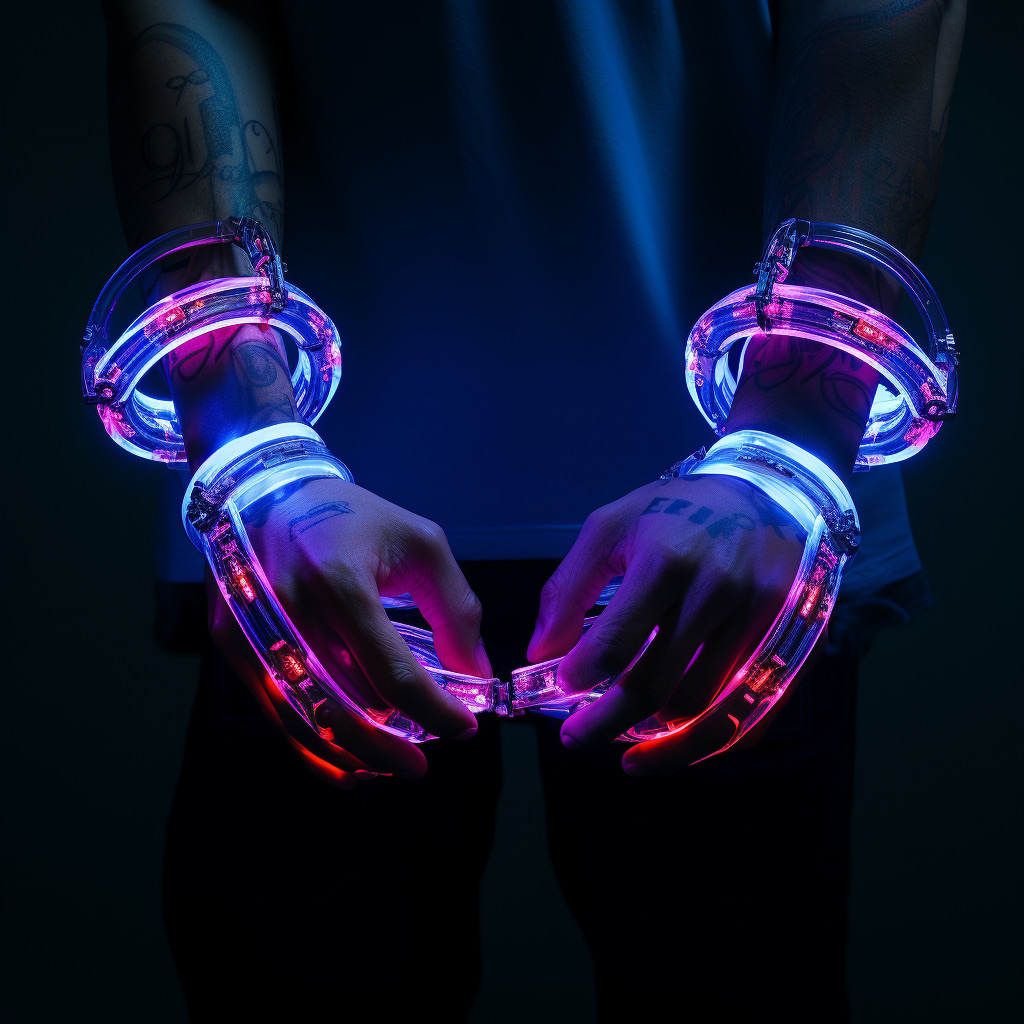
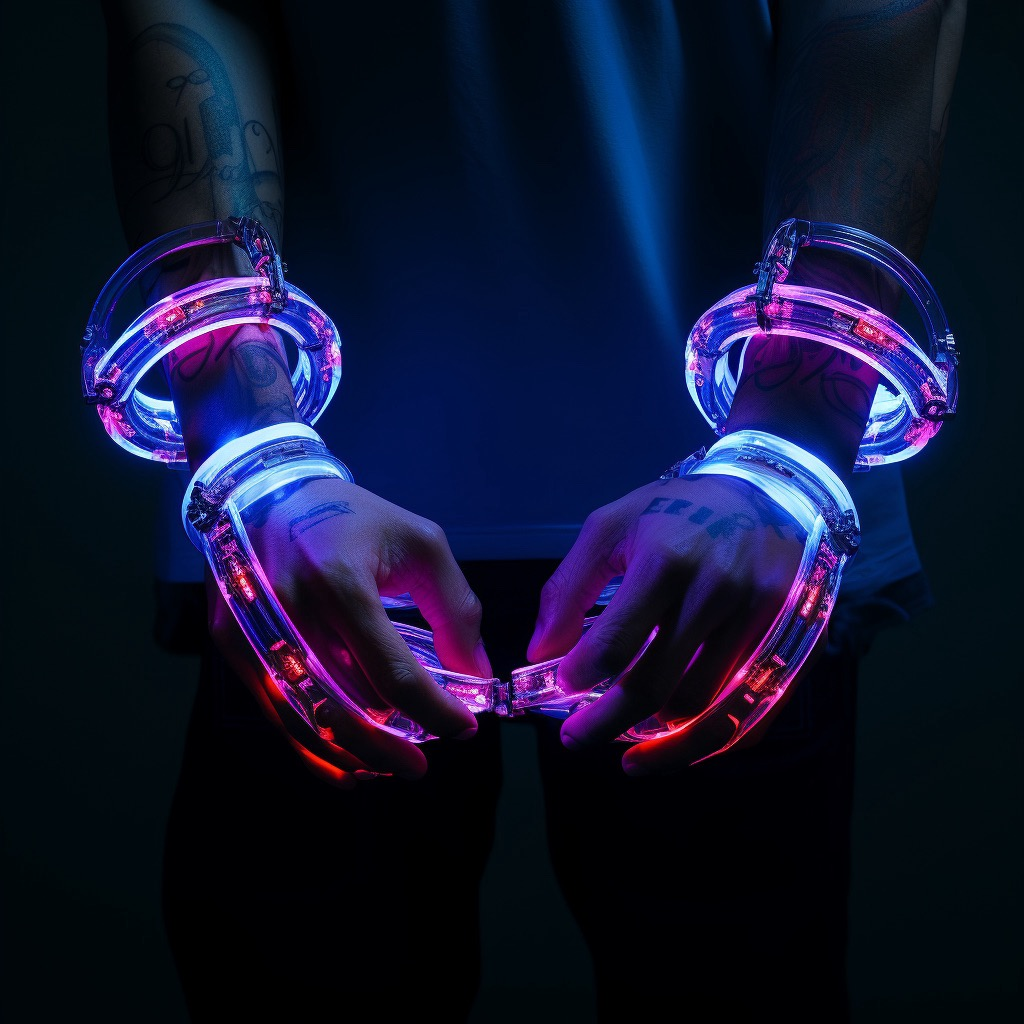
changed image size

diff --git a/movie.html b/movie.html
@@ -151,7 +151,7 @@
         <div class="cast-grid">
             <div class="cast-and-name">
                 <div class="cast">
-                    <img alt="john doe" class="cast-pic" src="assets/images/actors-directors/john-doe-1.png"
+                    <img alt="john doe" class="cast-pic" src="assets/images/actors-directors/john-doe-1.jpeg"
                          width="1024" height="1024"/>
                 </div>
                 <div class="name">
@@ -162,7 +162,7 @@
             </div>
             <div class="cast-and-name">
                 <div class="cast">
-                    <img alt="john doe-2" class="cast-pic" src="assets/images/actors-directors/john-doe-2.png"
+                    <img alt="john doe-2" class="cast-pic" src="assets/images/actors-directors/john-doe-2.jpeg"
                          width="1024" height="1024"/>
                 </div>
                 <div class="name">
@@ -173,7 +173,7 @@
             </div>
             <div class="cast-and-name">
                 <div class="cast">
-                    <img alt="john doe-3" class="cast-pic" src="assets/images/actors-directors/john-doe-3.png"
+                    <img alt="john doe-3" class="cast-pic" src="assets/images/actors-directors/john-doe-3.jpeg"
                          width="1024" height="1024"/>
                 </div>
                 <div class="name">
@@ -184,7 +184,7 @@
             </div>
             <div class="cast-and-name">
                 <div class="cast">
-                    <img alt="jane doe" class="cast-pic" src="assets/images/actors-directors/jane-doe-1.png"
+                    <img alt="jane doe" class="cast-pic" src="assets/images/actors-directors/jane-doe-1.jpeg"
                          width="1018" height="1018"/>
                 </div>
                 <div class="name">
@@ -195,7 +195,7 @@
             </div>
             <div class="cast-and-name">
                 <div class="cast">
-                    <img alt="john doe-2" class="cast-pic" src="assets/images/actors-directors/jane-doe-2.png"
+                    <img alt="john doe-2" class="cast-pic" src="assets/images/actors-directors/jane-doe-2.jpeg"
                          width="1018" height="1018"/>
                 </div>
                 <div class="name">

diff --git a/contact.html b/contact.html
@@ -64,7 +64,7 @@
   </div>
 </header>
 
-<img id="chat-girl" alt="chat girl" src="assets/images/chat-girl.png" height="989" width="1466"/>
+<img id="chat-girl" alt="chat girl" src="assets/images/chat-girl.jpeg" height="989" width="1466"/>
 <div class="contact-us">
   <h1>CONTACT US</h1>
   <img id="glow-box" alt="glowing box" src="assets/images/contact-box.png"/>
